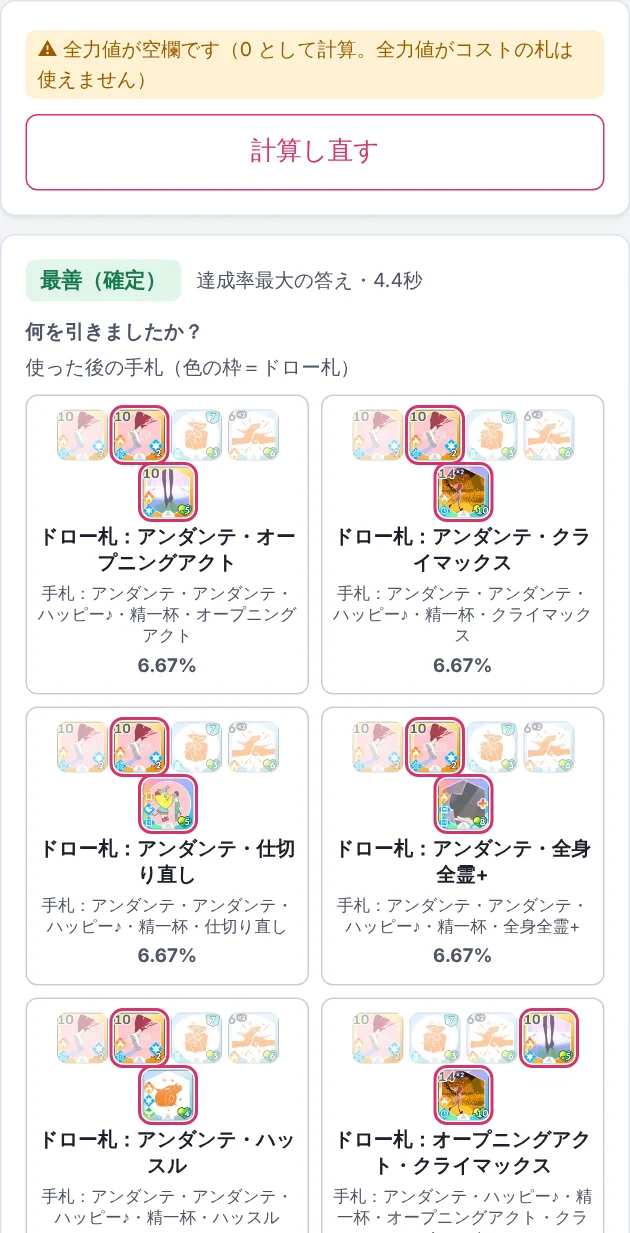
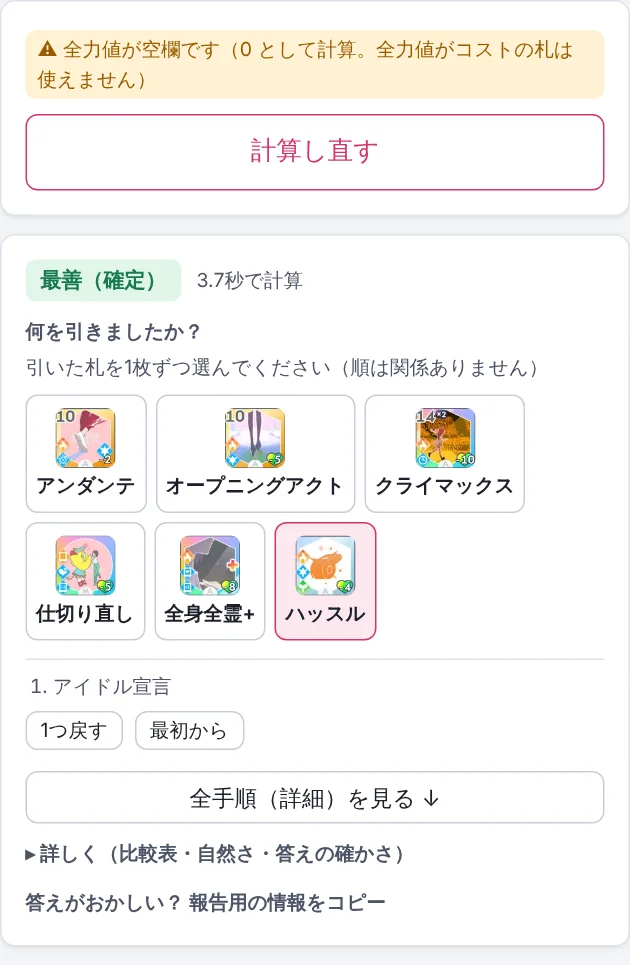
Solitaire Lab 1.9.0

diff --git a/manual/index.html b/manual/index.html
@@ -22,10 +22,10 @@
   .txt { flex: 0 0 420px; font-size: 18px; }
   .txt.wide { flex: 1; }
   .txt ol, .txt ul { margin: 0; padding-left: 1.3em; } .txt li { margin: 6px 0; }
-  .txt b { color: var(--acc); }
+  .txt b { color: var(--acc); } .txt > :last-child, .txt li:last-child { margin-bottom: 0; }
   .pic { flex: 1; min-width: 0; display: flex; align-items: flex-start; justify-content: center; }
-  .pic img { max-width: 100%; max-height: 560px; border: 1px solid var(--line); border-radius: 8px; box-shadow: 0 2px 12px rgba(0,0,0,.08); object-fit: contain; }
-  .col { flex-direction: column; } .col .pic img { max-height: 470px; }
+  .pic img { max-width: 100%; max-height: 550px; border: 1px solid var(--line); border-radius: 8px; box-shadow: 0 2px 12px rgba(0,0,0,.08); object-fit: contain; }
+  .col { flex-direction: column; } .col .pic { min-height: 0; } .col .pic img { max-height: 100%; }
   .tip { background: var(--acc2); border-radius: 8px; padding: 8px 12px; margin-top: 12px; font-size: 15px; }
   .warn { background: var(--warnbg); color: var(--warn); border-radius: 8px; padding: 8px 12px; margin-top: 12px; font-size: 15px; }
   kbd { border: 1px solid var(--line); border-bottom-width: 2px; border-radius: 4px; padding: 0 6px; font-size: 14px; background: var(--bg); }
@@ -51,30 +51,32 @@
 <section class="slide cover">
   <h1>Solitaire Lab 詳細マニュアル</h1>
   <div class="sub">学園アイドルマスターの「ソリティア」で、<br>どの順番で札を使えば目標点に届きやすいかを教えてくれるツールです。</div>
-  <div class="ver">版 1.8.3 ・ ← → キー、または画面の左右を押してページをめくります</div>
+  <div class="ver">版 1.9.0 ・ ← → キー、または画面の左右を押してページをめくります</div>
 </section>
 
 <section class="slide">
   <h2>目次</h2>
   <ol class="toc">
     <li><a href="#3">このツールについて</a></li>
-    <li><a href="#4">起動する</a></li>
+    <li><a href="#4">開く</a></li>
     <li><a href="#5">画面の見かた</a></li>
     <li><a href="#6">デッキを登録する</a></li>
     <li><a href="#7">札の種類を変える</a></li>
     <li><a href="#8">ゲームの状態を入力する</a></li>
     <li><a href="#9">札を振り分ける</a></li>
     <li><a href="#10">その他の条件を入力する</a></li>
-    <li><a href="#11">計算する</a></li>
-    <li><a href="#12">結果を見る</a></li>
-    <li><a href="#13">結果をくわしく見る</a></li>
-    <li><a href="#14">ゲームを進めながら使う</a></li>
-    <li><a href="#15">手順の一覧表を見る</a></li>
-    <li><a href="#16">途中から・次のターンから計算する</a></li>
-    <li><a href="#17">計算が終わらないとき</a></li>
-    <li><a href="#18">設定を変える</a></li>
-    <li><a href="#19">札の効果を追加・修正する</a></li>
-    <li><a href="#20">困ったときは</a></li>
+    <li><a href="#11">詳しい条件を入力する</a></li>
+    <li><a href="#12">計算する</a></li>
+    <li><a href="#13">結果を見る</a></li>
+    <li><a href="#14">2つの答え（達成率最大・95%で良ければ）</a></li>
+    <li><a href="#15">結果をくわしく見る</a></li>
+    <li><a href="#16">ゲームを進めながら使う</a></li>
+    <li><a href="#17">手順の一覧表を見る</a></li>
+    <li><a href="#18">途中から・次のターンから計算する</a></li>
+    <li><a href="#19">計算が終わらないとき</a></li>
+    <li><a href="#20">設定を変える</a></li>
+    <li><a href="#21">札の効果を追加・修正する</a></li>
+    <li><a href="#22">困ったときは</a></li>
   </ol>
 </section>
 
@@ -171,7 +173,13 @@
     <p>全力値を使う札がデッキにあるときは「<b>全力値</b>」（ブースト・ラッシュなどがあるときは「<b>累計の全力値</b>」も）の欄が出ます。ゲームの画面の値を入れてください。全力値がコストの札（アンダンテなど）は、全力値が足りるときだけ使えます。</p>
     <p>目標点に迷ったら「<b>この局面で取れる点を調べる</b>」を押します。確率100%で届く最大の点・50%で届く最大の点・最大の点が出て、数字を押すとその点が目標点に入ります。</p>
     <p>デッキの P アイテムのうち、入力が必要なもの（発動済みの回数・カウンタ）は、熱意などの下に欄が出ます。ゲームの画面と見比べて入れてください（熱意倍率の欄には、発動した分も含めたゲームの表示の値を入れます）。</p>
-    <p>「▸ 詳しい条件」を押すと、次の項目が表示されます。必要なときだけ入力してください。</p>
+  </div><div class="pic"><img src="img/07-turn-input.webp" alt="入力の欄"></div></div>
+</section>
+
+<section class="slide">
+  <h2><span class="no">9</span>詳しい条件を入力する</h2>
+  <div class="body"><div class="txt">
+    <p>局面の入力の下の「▸ 詳しい条件」を押すと、次の項目が表示されます。必要なときだけ入力してください。</p>
     <ul>
       <li>ひとつ前の指針、スコア上昇、残りターン</li>
       <li>このターンで使ってよいドリンクの本数（ドリンクの上限）</li>
@@ -183,7 +191,7 @@
 </section>
 
 <section class="slide">
-  <h2><span class="no">9</span>計算する</h2>
+  <h2><span class="no">10</span>計算する</h2>
   <div class="body"><div class="txt">
     <ol>
       <li>右側の一番上で、入力に問題がないか（✔ / ✖）を確認します。</li>
@@ -196,7 +204,7 @@
 </section>
 
 <section class="slide">
-  <h2><span class="no">10</span>結果を見る</h2>
+  <h2><span class="no">11</span>結果を見る</h2>
   <div class="body"><div class="txt">
     <ul>
       <li><b>次の手</b>：次に使う札（または飲むドリンク）です。</li>
@@ -204,14 +212,24 @@
       <li><b>ドリンク</b>：このあと使うドリンクの、平均の本数です。</li>
       <li><b>手数</b>：このあと札やドリンクを使う、平均の回数です（ドリンク・手数は、引く札によって変わる数の見込みです）。</li>
       <li>左上の「<b>最善（確定）</b>」は、すべての手順を調べ終わった、一番よい結果という意味です。</li>
-      <li>答えは「<b>達成率最大</b>」が主で、その下に「<b>95%で良ければ</b>」（達成率 95% 以上でドリンクを少なくする答え）が並びます。「こちらでプレイする」を押すと、プレイの案内がその答えに切り替わります（2つが同じときは1つだけ出ます）。速く計算したいときは、「設定 ▾」→「設定」の「95%の答えも出す」のチェックを外すと、達成率最大だけになります。</li>
     </ul>
     <div class="tip">ヒント：「同じ評価の別の手順があります」は、「▸ 詳しく」の中に出ます。</div>
   </div><div class="pic"><img src="img/09b-answer-panel.webp" alt="計算結果"></div></div>
 </section>
 
 <section class="slide">
-  <h2><span class="no">11</span>結果をくわしく見る</h2>
+  <h2><span class="no">12</span>2つの答え（達成率最大・95%で良ければ）</h2>
+  <div class="body"><div class="txt">
+    <ul>
+      <li>答えは「<b>達成率最大</b>」が主で、その下に「<b>95%で良ければ</b>」（達成率 95% 以上で、ドリンクを少なくする答え）が1行で並びます。</li>
+      <li>「<b>こちらでプレイする</b>」を押すと、プレイの案内がその答えに切り替わります。2つが同じときは1つだけ出ます。</li>
+      <li>速く計算したいときは、「設定 ▾」→「設定」の「95%の答えも出す」のチェックを外すと、達成率最大だけになります。</li>
+    </ul>
+  </div><div class="pic"><img src="img/09-answer.webp" alt="答え"></div></div>
+</section>
+
+<section class="slide">
+  <h2><span class="no">13</span>結果をくわしく見る</h2>
   <div class="body"><div class="txt">
     <p>「▸ 詳しく」を押すと、次の内容が表示されます。</p>
     <ul>
@@ -223,12 +241,12 @@
 </section>
 
 <section class="slide">
-  <h2><span class="no">12</span>ゲームを進めながら使う</h2>
+  <h2><span class="no">14</span>ゲームを進めながら使う</h2>
   <div class="body"><div class="txt">
     <ol>
       <li>ゲームで、表示された札を使います。</li>
       <li>「<b>使った</b>」を押します（ドリンクは「飲んだ」）。</li>
-      <li>札を引いたときは「何を引きましたか？」と表示されます。ゲームの手札と同じものを選びます。新しく来た札には色の枠が付いています。</li>
+      <li>札を引いたときは「何を引きましたか？」と表示されます。1枚引いたときは、ゲームの手札と同じものを選びます（新しく来た札には色の枠）。2枚以上引いて組み合わせが多いときは、引いた札を1枚ずつ選びます（順は関係ありません）。</li>
       <li>次の手が表示されます。これをくり返します。</li>
     </ol>
     <div class="tip">ヒント：押し間違えたときは「1つ戻す」を押します。ゲームと違うことが起きたときは、状態を入力し直して計算してください。</div>
@@ -236,7 +254,7 @@
 </section>
 
 <section class="slide">
-  <h2><span class="no">13</span>手順の一覧表を見る</h2>
+  <h2><span class="no">15</span>手順の一覧表を見る</h2>
   <div class="body col"><div class="txt wide">
     「全手順（詳細）を見る」を押すと、手順の一覧表が表示されます。<br>
     「手順ごと」では、引いた札の出方ごとに、最初から終わりまでの手順を1つずつ見られます（起きやすい順に「手順1」「手順2」…）。「◀ 前」「次 ▶」や一覧で切り替えます。「全部の表」では、すべての分かれを1つの表で見られます。<br>
@@ -245,7 +263,7 @@
 </section>
 
 <section class="slide">
-  <h2><span class="no">14</span>途中から・次のターンから計算する</h2>
+  <h2><span class="no">16</span>途中から・次のターンから計算する</h2>
   <div class="body"><div class="txt">
     <ul>
       <li><b>ここから局面を作る</b>：ゲームの途中の状態を、そのまま入力に取り込みます。全身全霊などで札を引いたあとに計算し直すと、計算が速くなります。目標点は、それまでに取った点数を引いた値になります。最適な答えが出ていれば、作った局面を直さずに「計算する」を押すと、前の答えからすぐに答えが出ます。</li>
@@ -256,7 +274,7 @@
 </section>
 
 <section class="slide">
-  <h2><span class="no">15</span>計算が終わらないとき</h2>
+  <h2><span class="no">17</span>計算が終わらないとき</h2>
   <div class="body"><div class="txt wide">
     <ul>
       <li>時間内にすべての手順を調べきれなかったときは、左上に「<b>今のところの最善</b>」と表示されます。これは「時間内に見つかった中で一番よい手順」という意味です。</li>
@@ -268,7 +286,7 @@
 </section>
 
 <section class="slide">
-  <h2><span class="no">16</span>設定を変える</h2>
+  <h2><span class="no">18</span>設定を変える</h2>
   <div class="body"><div class="txt">
     <ul>
       <li><b>答えの選び方</b>：はじめは「達成率をできるだけ高くする」です。</li>
@@ -281,7 +299,7 @@
 </section>
 
 <section class="slide">
-  <h2><span class="no">17</span>札の効果を追加・修正する</h2>
+  <h2><span class="no">19</span>札の効果を追加・修正する</h2>
   <div class="body"><div class="txt">
     <p>右上の「設定 ▾」→「札の設定」で、次のことができます。</p>
     <ul>
@@ -296,7 +314,7 @@
 </section>
 
 <section class="slide">
-  <h2><span class="no">18</span>困ったときは</h2>
+  <h2><span class="no">20</span>困ったときは</h2>
   <div class="body"><div class="txt wide">
     <table>
       <tr><th>結果がおかしい</th><td>結果の下、または「設定」にある「<b>報告用の情報をコピー</b>」（右上の「ヘルプ」の中にもあります）を押し、ひとこと添えて作者に送ってください。入力した内容と結果がコピーされます（個人情報は含まれません）。</td></tr>

diff --git a/js/answer.js b/js/answer.js
@@ -11,7 +11,9 @@ import {buildNextPhase, playPath} from './nextturn.js';
 import {copyReport} from './report.js';
 
 const EXTRA_NAME = {ev: '期待最終点', floor: '最低最終点'};
+const num1 = x => x === null || x === undefined ? '—' : (Math.round(x * 10) / 10).toLocaleString('ja-JP');
 const num3 = x => x === null || x === undefined ? '—' : (Math.round(x * 1000) / 1000).toLocaleString('ja-JP');
+const secText = ms => ms < 1000 ? '1秒未満' : ms < 10000 ? (ms / 1000).toFixed(1) + '秒' : Math.round(ms / 1000) + '秒';
 const pct = x => (Math.round(x * 10000) / 100) + '%';
 const drawnText = d => d.length ? 'ドロー札：' + d.map(x => x.name).join('・') : '（ドロー札なし）';
 let detailsOpen = false, making = false, makeErr = null, timer = null;
@@ -83,7 +85,7 @@ function nextView(R, interim) {
   const b = R.best;
   return h('div.nextv', {},
     h('div.nmain', {}, R.nextIcon ? pic(R.nextIcon.kind, R.nextIcon.id, R.next, 64) : null, h('div.ntext', R.next || '—')),
-    b && h('div.kpis', {}, kpi('達成率', b.pText, '', '目標点に届く確率'), kpi('ドリンク', num3(b.dNum), '本', 'このあと使うドリンクの本数の見込み（引く札によって変わる数の平均）'), kpi('手数', num3(b.aNum), '回', 'このあと札やドリンクを使う回数の見込み（平均）')));
+    b && h('div.kpis', {}, kpi('達成率', b.pText, '', '目標点に届く確率'), kpi('ドリンク', num1(b.dNum), '本', 'このあと使うドリンクの本数の見込み（引く札によって変わる数の平均）'), kpi('手数', num1(b.aNum), '回', 'このあと札やドリンクを使う回数の見込み（平均）')));
 }
 const kpi = (label, v, unit = '', tip = '') => h('div.kpi', {}, h('div.kl', label, tip && qtip(tip)), h('div.kv', v, h('small', unit)));
 
@@ -96,7 +98,7 @@ function resultView(R, rerender, {checkList} = {}) {
   const box = h('section.panel.ans', {});
   const add = (...xs) => box.append(...xs.filter(x => x));   // false・null は出さない
   add(h('div.ansHead', {}, h('span.status', {class: stCls, title: stDesc}, stName + (R.canceled ? '（中止）' : '')),
-    h('span.hint', `${R.criterion === 'max' ? '達成率最大の答え' : `${R.criterion}%で良ければの答え`}・${(R.ms / 1000).toFixed(1)}秒`)));
+    h('span.hint', {title: R.criterion === 'max' ? '達成率最大の答え' : `${R.criterion}%で良ければの答え`}, secText(R.ms) + 'で計算')));
   for (const n of R.notes || []) add(h('p.warnline', n));   // 計算の部品の注意書き
   const tags = [R.followed && ['前の答えから即答', '前の局面の答えから読み出しました（計算し直していません。答えは計算し直したときと同じです）'],
     R.retargeted && ['前の計算を使用', '同じ局面の前の計算を使って、目標・基準を変えた答えを出しました（答えは計算し直したときと同じです）'],
@@ -119,13 +121,13 @@ function resultView(R, rerender, {checkList} = {}) {
         R.setup && deck()?.id === R.deckId && h('button.big.pri.wide', {disabled: making, onclick: () => makePhase(R, steps, rerender, false)}, making ? '作っています…' : '次のターンの局面を作る →'),
         makeErr && h('p.warnline', '作れませんでした：' + makeErr));
     } else if (waiting) {
-      add(h('div.lbl', '何を引きましたか？'),
+      if (node.edges.length > 6 && node.edges.some(e => e.drawn.length >= 2)) add(...drawPicker(node, push, steps.length, rerender));
+      else add(h('div.lbl', '何を引きましたか？'),
         h('p.hint', '使った後の手札（色の枠＝ドロー札）'),
         h('div.draws', node.edges.map((e, i) => h('button.drawbtn', {onclick: () => push({type: 'draw', i, label: drawnText(e.drawn)})},
           h('div.dpics', (e.hand || e.drawn).slice(0, 6).map(x => h('span.hcard', {class: x.isNew !== false ? 'new' : 'old'}, pic('cards', x.id, x.name, 34)))),
           h('b', drawnText(e.drawn)),
-          e.hand && h('span.handtxt', '手札：' + e.hand.map(x => x.name).join('・')),
-          h('small', pct(e.p))))));
+          e.hand && h('span.handtxt', '手札：' + e.hand.map(x => x.name).join('・'))))));
     } else {
       if (steps.length) add(h('div.lbl', '次の手'), h('div.nmain', {}, node.icon ? pic(node.icon.kind, node.icon.id, node.act, 64) : null, h('div.ntext', node.act)),
         h('div.kpis', {}, kpi('この先の達成率', pct(node.p))));
@@ -170,6 +172,25 @@ function resultView(R, rerender, {checkList} = {}) {
   return box;
 }
 
+// 引いた札を選ぶところでは、ドローの確率は出さない（引いた後なので判断に使わず、達成率の % とまぎれる。1.9.0、利用者の決定）
+// 2枚以上引く局面：引いた札を1枚ずつ選ぶ（順は関係ない）。選んだ札を全部含む枝だけ残し、1つに決まったら進む（レビュー項目1）
+let pick = {key: null, ids: []};
+function drawPicker(node, push, key, rerender) {
+  if (pick.key !== key) pick = {key, ids: []};
+  const rest = e => { const r = e.drawn.map(x => x.id); for (const id of pick.ids) { const i = r.indexOf(id); if (i < 0) return null; r.splice(i, 1); } return r; };
+  const cand = node.edges.map((e, i) => ({e, i, rest: rest(e)})).filter(c => c.rest);
+  const go = c => push({type: 'draw', i: c.i, label: drawnText(c.e.drawn)});
+  const names = new Map(node.edges.flatMap(e => e.drawn.map(x => [x.id, x.name])));
+  const ids = [...new Set(cand.flatMap(c => c.rest))];
+  const choose = id => { pick.ids.push(id); const left = node.edges.filter(e => rest(e)); if (left.length === 1) go({e: left[0], i: node.edges.indexOf(left[0])}); else rerender(); };
+  const exact = cand.filter(c => !c.rest.length);
+  return [h('div.lbl', '何を引きましたか？'),
+    h('p.hint', pick.ids.length ? `${pick.ids.length + 1}枚目は？（順は関係ありません）` : '引いた札を1枚ずつ選んでください（順は関係ありません）'),
+    pick.ids.length ? h('div.row.picked', {}, h('span', '選んだ札：' + pick.ids.map(id => names.get(id)).join('・')), h('button.mini', {onclick: () => { pick.ids.pop(); rerender(); }}, '1つ戻す')) : null,
+    h('div.draws.chips', ids.map(id => h('button.drawbtn', {onclick: () => choose(id)}, pic('cards', id, names.get(id), 40), h('b', names.get(id))))),
+    ...exact.map(c => h('button.wide', {onclick: () => go(c)}, c.e.drawn.length ? `これで全部（${drawnText(c.e.drawn)}）` : 'ドロー札なし'))];
+}
+
 // もう一方の答えの1行。押すと主の答えと入れ替える（局面・予算などの共通の項目は残す）
 const ALT_LABEL = R => R.criterion === 'max' ? '達成率最大なら' : `${R.criterion}%で良ければ`;
 function altView(R, rerender) {
@@ -182,7 +203,7 @@ function altView(R, rerender) {
     S.play = {steps: []}; save(); rerender();
   };
   return h('div.altans', {},
-    h('div.altline', {}, h('b', ALT_LABEL(A) + '：'), b ? `達成率 ${b.pText}・ドリンク ${num3(b.dNum)}本・手数 ${num3(b.aNum)}回` : '—', A.next && h('span.altnext', '・次の手 ' + A.next)),
+    h('div.altline', {}, h('b', ALT_LABEL(A) + '：'), b ? `達成率 ${b.pText}・ドリンク ${num1(b.dNum)}本・手数 ${num1(b.aNum)}回` : '—', A.next && h('span.altnext', '・次の手 ' + A.next)),
     A.meetsAlpha === false && A.criterion !== 'max' && h('p.hint', `まだ ${A.criterion}% に届いていません（時間内に見つかった中で一番よい手順）。`),
     h('button', {onclick: swap}, 'こちらでプレイする'));
 }

diff --git a/manual/summary.html b/manual/summary.html
@@ -22,9 +22,9 @@
   .txt { flex: 0 0 420px; font-size: 18px; }
   .txt.wide { flex: 1; }
   .txt ol, .txt ul { margin: 0; padding-left: 1.3em; } .txt li { margin: 6px 0; }
-  .txt b { color: var(--acc); }
+  .txt b { color: var(--acc); } .txt > :last-child, .txt li:last-child { margin-bottom: 0; }
   .pic { flex: 1; min-width: 0; display: flex; align-items: flex-start; justify-content: center; }
-  .pic img { max-width: 100%; max-height: 560px; border: 1px solid var(--line); border-radius: 8px; box-shadow: 0 2px 12px rgba(0,0,0,.08); object-fit: contain; }
+  .pic img { max-width: 100%; max-height: 550px; border: 1px solid var(--line); border-radius: 8px; box-shadow: 0 2px 12px rgba(0,0,0,.08); object-fit: contain; }
   .col { flex-direction: column; } .col .pic img { max-height: 470px; }
   .pic.three { gap: 14px; align-items: flex-start; } .pic.three figure { margin: 0; flex: 1; text-align: center; } .pic.three img { max-height: 330px; max-width: 100%; } .pic.three figcaption { font-weight: 700; color: var(--acc); margin-top: 4px; }
   .tip { background: var(--acc2); border-radius: 8px; padding: 8px 12px; margin-top: 12px; font-size: 15px; }
@@ -52,7 +52,7 @@
 <section class="slide cover">
   <h1>Solitaire Lab</h1>
   <div class="sub">学園アイドルマスターの「ソリティア」で、<br>どの順番で札を使えば目標点に届きやすいかを教えてくれるツールです。</div>
-  <div class="ver">概要（6ページ） ・ 版 1.8.3 ・ くわしい使い方は「詳細マニュアル」をご覧ください</div>
+  <div class="ver">概要 ・ 版 1.9.0 ・ くわしい使い方は「詳細マニュアル」をご覧ください</div>
 </section>
 
 <section class="slide">
@@ -87,13 +87,13 @@
   <h2><span class="no">3</span>便利な機能</h2>
   <div class="body"><div class="txt">
     <ul>
-      <li><b>全手順の一覧表</b>：引いた札の出方ごとに、最初から終わりまでの手順を切り替えて見られます。見たい列だけを出せます。Excel などで開けるファイルにも保存できます。</li>
+      <li><b>全手順の一覧表</b>：引いた札の出方ごとの手順を、最初から終わりまで見られます。見たい列を選べて、Excel で開けるファイルにも保存できます。</li>
       <li><b>夏夜の火力</b>：夏夜に咲く思い出の効果で入った点を表示します。</li>
       <li><b>途中から計算</b>：全身全霊などで札を引いたあとから計算し直すと、計算が速くなります。</li>
       <li><b>計算の続き</b>：時間内に終わらなかった計算を、続きから再開できます。</li>
       <li><b>次のターンへ</b>：ターンの終わりの状態から、次のターンの入力を作れます。</li>
       <li><b>取れる点を調べる</b>：目標点に迷ったら、確率100%・50%で届く最大の点と最大の点を調べられます。押すと目標点に入ります。</li>
-      <li><b>入力の手助け</b>：欄の横の「?」に説明。P アイテム・HIF・全力値の欄は、デッキに合わせて必要なときだけ出ます。</li>
+      <li><b>入力の手助け</b>：欄の横の「?」に説明。P アイテム・HIF・全力値の欄は、要るときだけ出ます。</li>
     </ul>
   </div><div class="pic"><img src="img/13-steps.webp" alt="手順の一覧表"></div></div>
 </section>

diff --git a/js/steps.js b/js/steps.js
@@ -53,7 +53,7 @@ const BASE_COLS = [['step', '手順'], ['act', '手'], ['drawn', 'ドロー札']
 
 // 列の既定（チェックの初期値）。手順・手はいつも出す
 const ALWAYS = ['step', 'act'];
-const DEFAULT_COLS = ['drawn', 'path', 'score', 'heat', 'future'];
+const DEFAULT_COLS = ['drawn', 'score', 'heat', 'future'];   // ドローの確率の列（このドローの確率・ここまでの確率）は、列の選択で出す
 const NUM_COLS = ['score', 'heat', 'extra', 'factor', 'bonus', 'uses', 'drinks', 'p', 'path', 'future'];
 
 // 木 → 手順（最初から終わりまでの1本）の一覧。起きやすい順
@@ -109,7 +109,7 @@ export function renderSteps(root, rerender) {
     const ps = paths(R.tree);
     const i = Math.max(0, Math.min(ps.length - 1, S.ui.stepPath || 0)), P = ps[i];
     const go = j => { S.ui.stepPath = Math.max(0, Math.min(ps.length - 1, j)); save(); rerender(); };
-    const label = (x, j) => `手順${j + 1}（${pct(x.p)}・${x.reached ? '届く' : '届かない'}）`;
+    const label = (x, j) => `手順${j + 1}（確率 ${pct(x.p)}・${x.reached ? '届く' : '届かない'}）`;
     view = h('div', {},
       h('div.pathnav', {},
         h('button', {disabled: i === 0, onclick: () => go(i - 1)}, '◀ 前'),

diff --git a/js/app.js b/js/app.js
@@ -34,8 +34,8 @@ function render() {
       // たまに使うものは、右の2つのメニューにまとめる（ヘルプ：概要・使い方・報告、設定：札の設定・設定・クレジット）
       h('nav.subtabs', {},
         h('button.menu', {onclick: e => popover(e.currentTarget, '', [
-          {label: '概要（はじめての方へ・6ページ）', onclick: () => window.open('manual/summary.html', '_blank', 'noopener')},
-          {label: '使い方（詳細マニュアル・20ページ）', onclick: () => window.open('manual/index.html', '_blank', 'noopener')},
+          {label: '概要（はじめての方へ）', onclick: () => window.open('manual/summary.html', '_blank', 'noopener')},
+          {label: '使い方（詳細マニュアル）', onclick: () => window.open('manual/index.html', '_blank', 'noopener')},
           {label: '答えがおかしい？ 報告用の情報をコピー', onclick: copyReport}])}, 'ヘルプ ▾'),
         h('button.menu', {class: SUB.some(([k]) => k === tab[0]) ? 'on' : '', onclick: e => popover(e.currentTarget, '', SUB.map(([k, t]) => ({label: t, disabled: k === tab[0], onclick: () => go(k)})))},
           (SUB.find(([k]) => k === tab[0])?.[1] || '設定') + ' ▾'))),

diff --git a/style.css b/style.css
@@ -50,6 +50,10 @@ header { position: sticky; top: 0; z-index: 10; display: flex; align-items: cent
 .subtabs { margin-left: auto; display: flex; gap: 4px; }
 .subtabs button { border: none; background: none; color: var(--sub); font-size: 14px; padding: 4px 10px; border-radius: 6px; }
 .subtabs button.on { background: var(--acc2); color: var(--ink); font-weight: 700; }
+.tabs button, .subtabs button, .zt b { white-space: nowrap; }
+@media (max-width: 700px) { header { flex-wrap: wrap; height: auto; gap: 4px 12px; padding: 6px 12px; } .tabs { height: 40px; } .deckpick { max-width: 100%; } }
+.draws.chips { grid-template-columns: repeat(auto-fill, minmax(110px, 1fr)); }
+.picked { gap: 10px; align-items: center; font-size: 14px; margin: 4px 0; }
 .tabs.small { height: auto; } .tabs.small button { height: auto; padding: 6px 10px; font-size: 14px; }
 main { padding: 14px 18px 40px; max-width: 1680px; margin: 0 auto; }
 footer { color: var(--faint); font-size: 12px; text-align: center; padding: 8px 16px 22px; }
